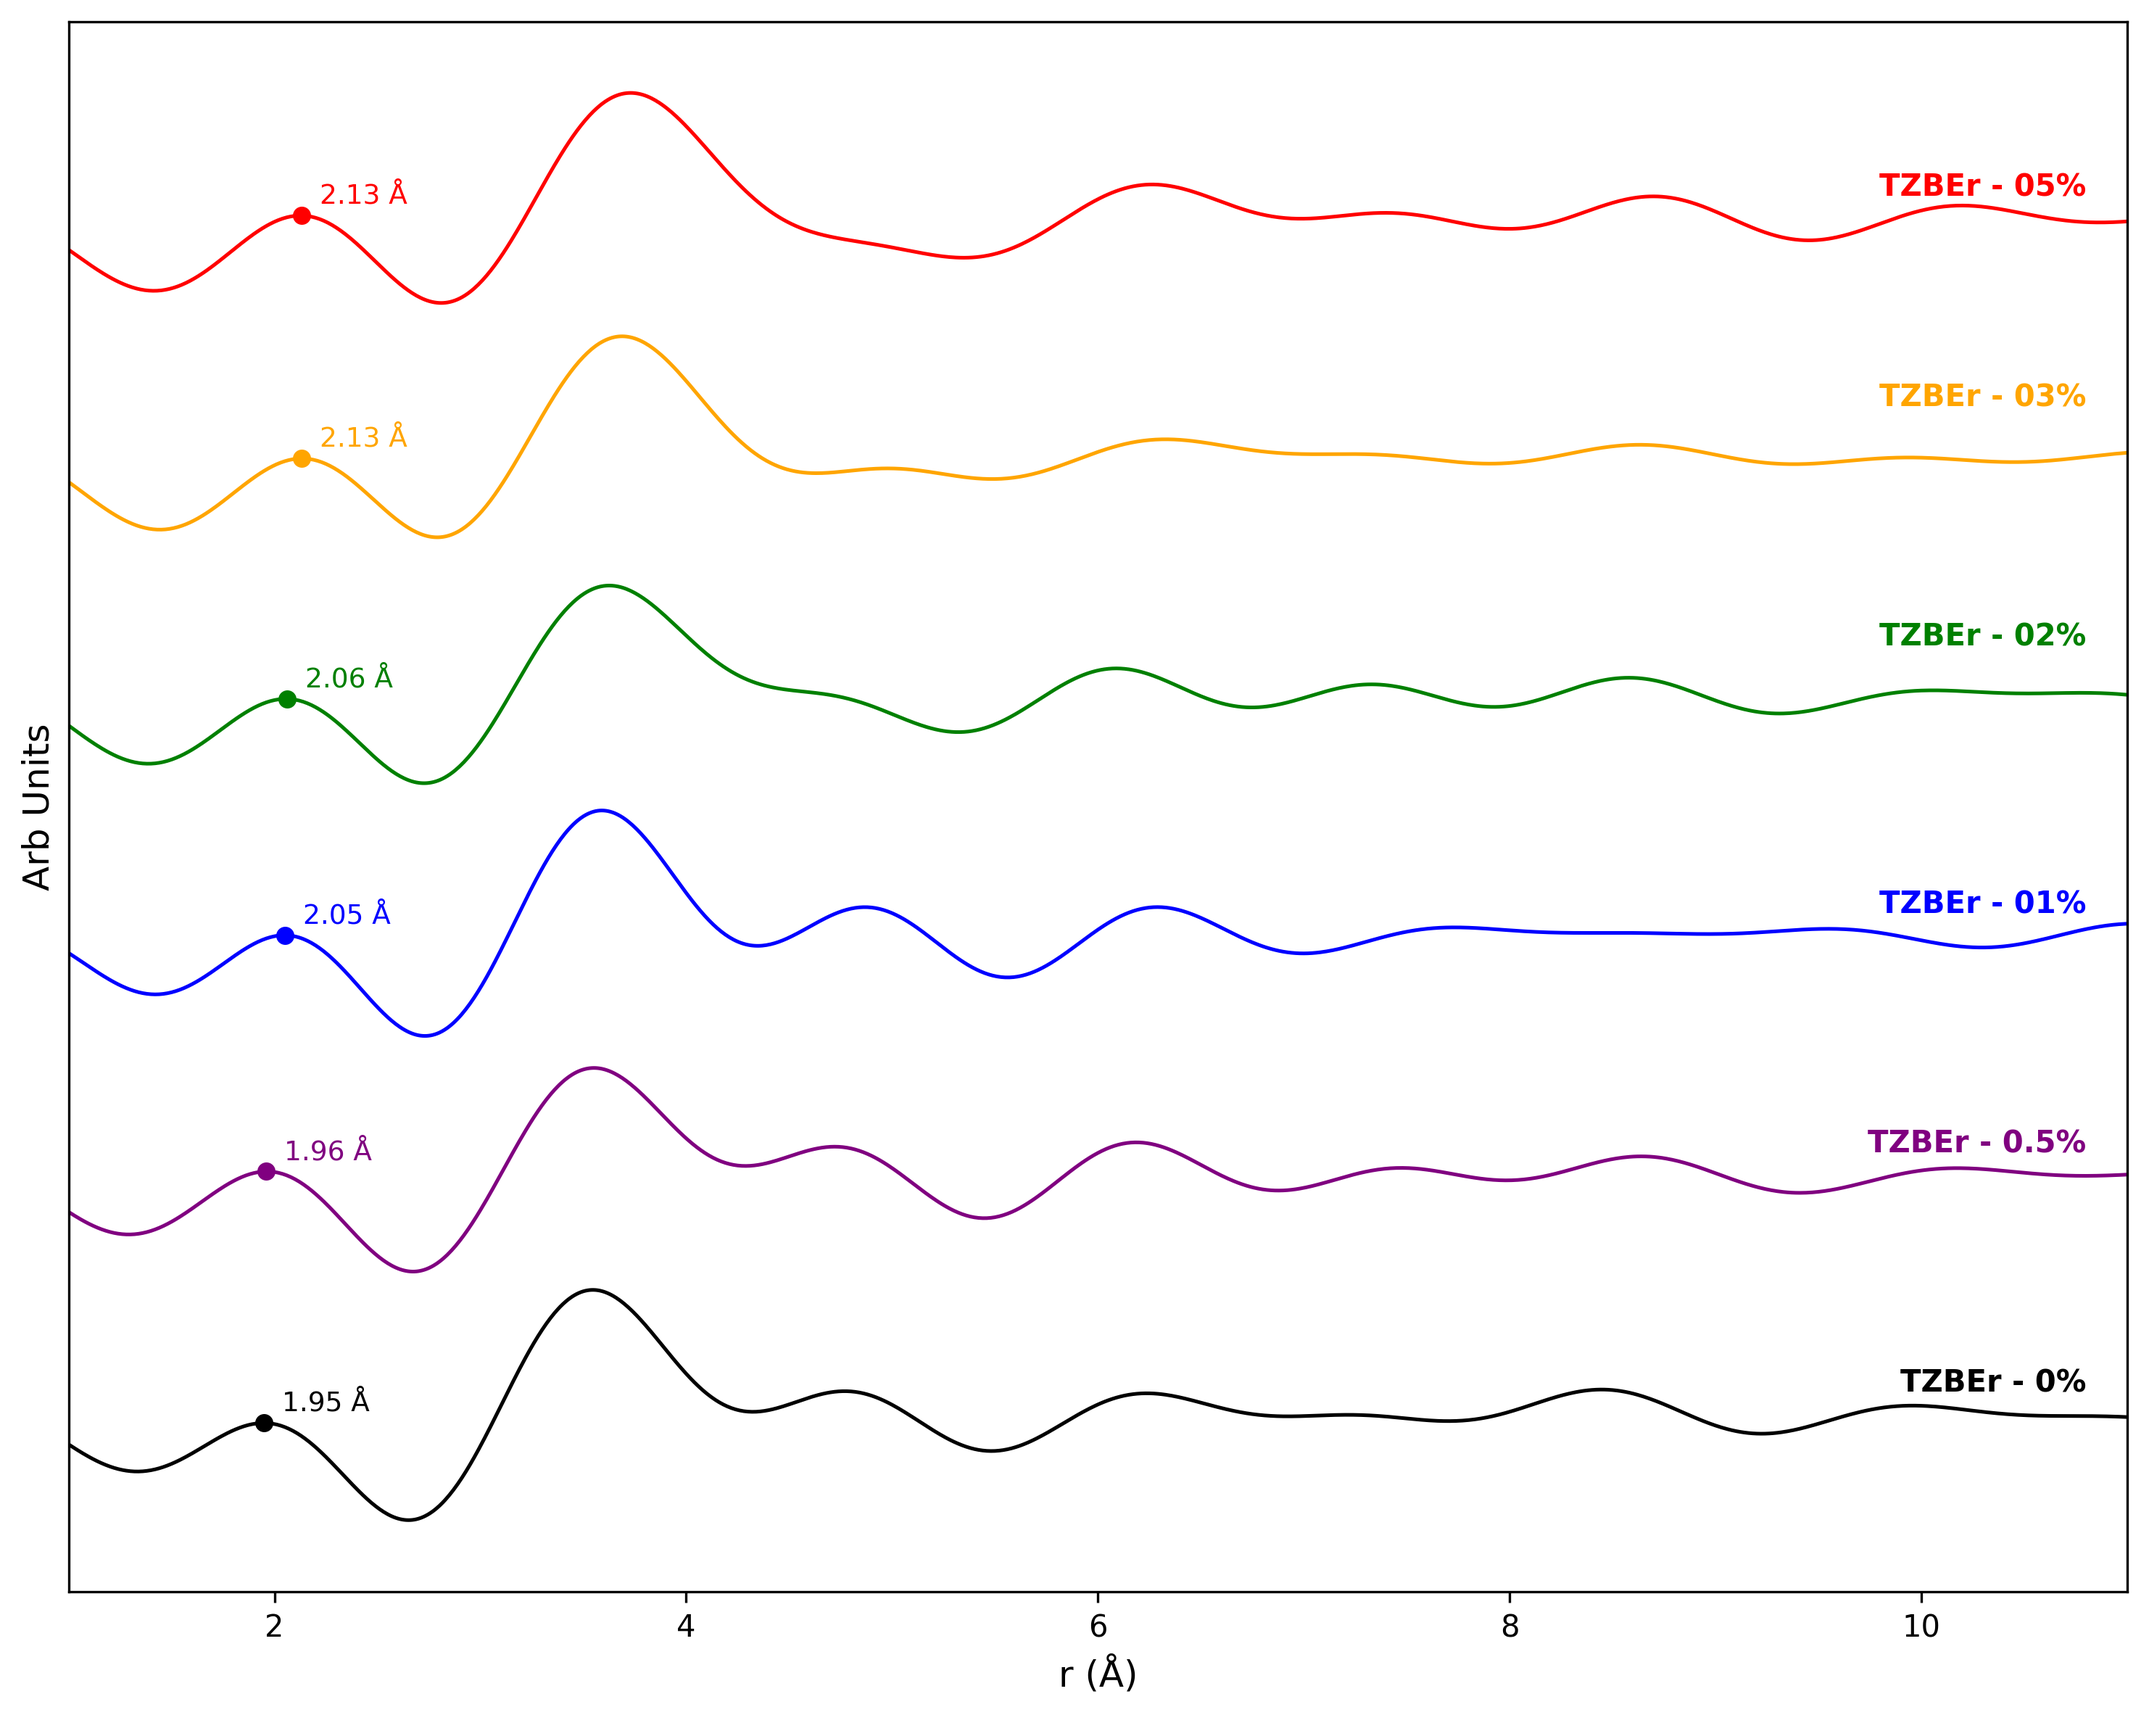
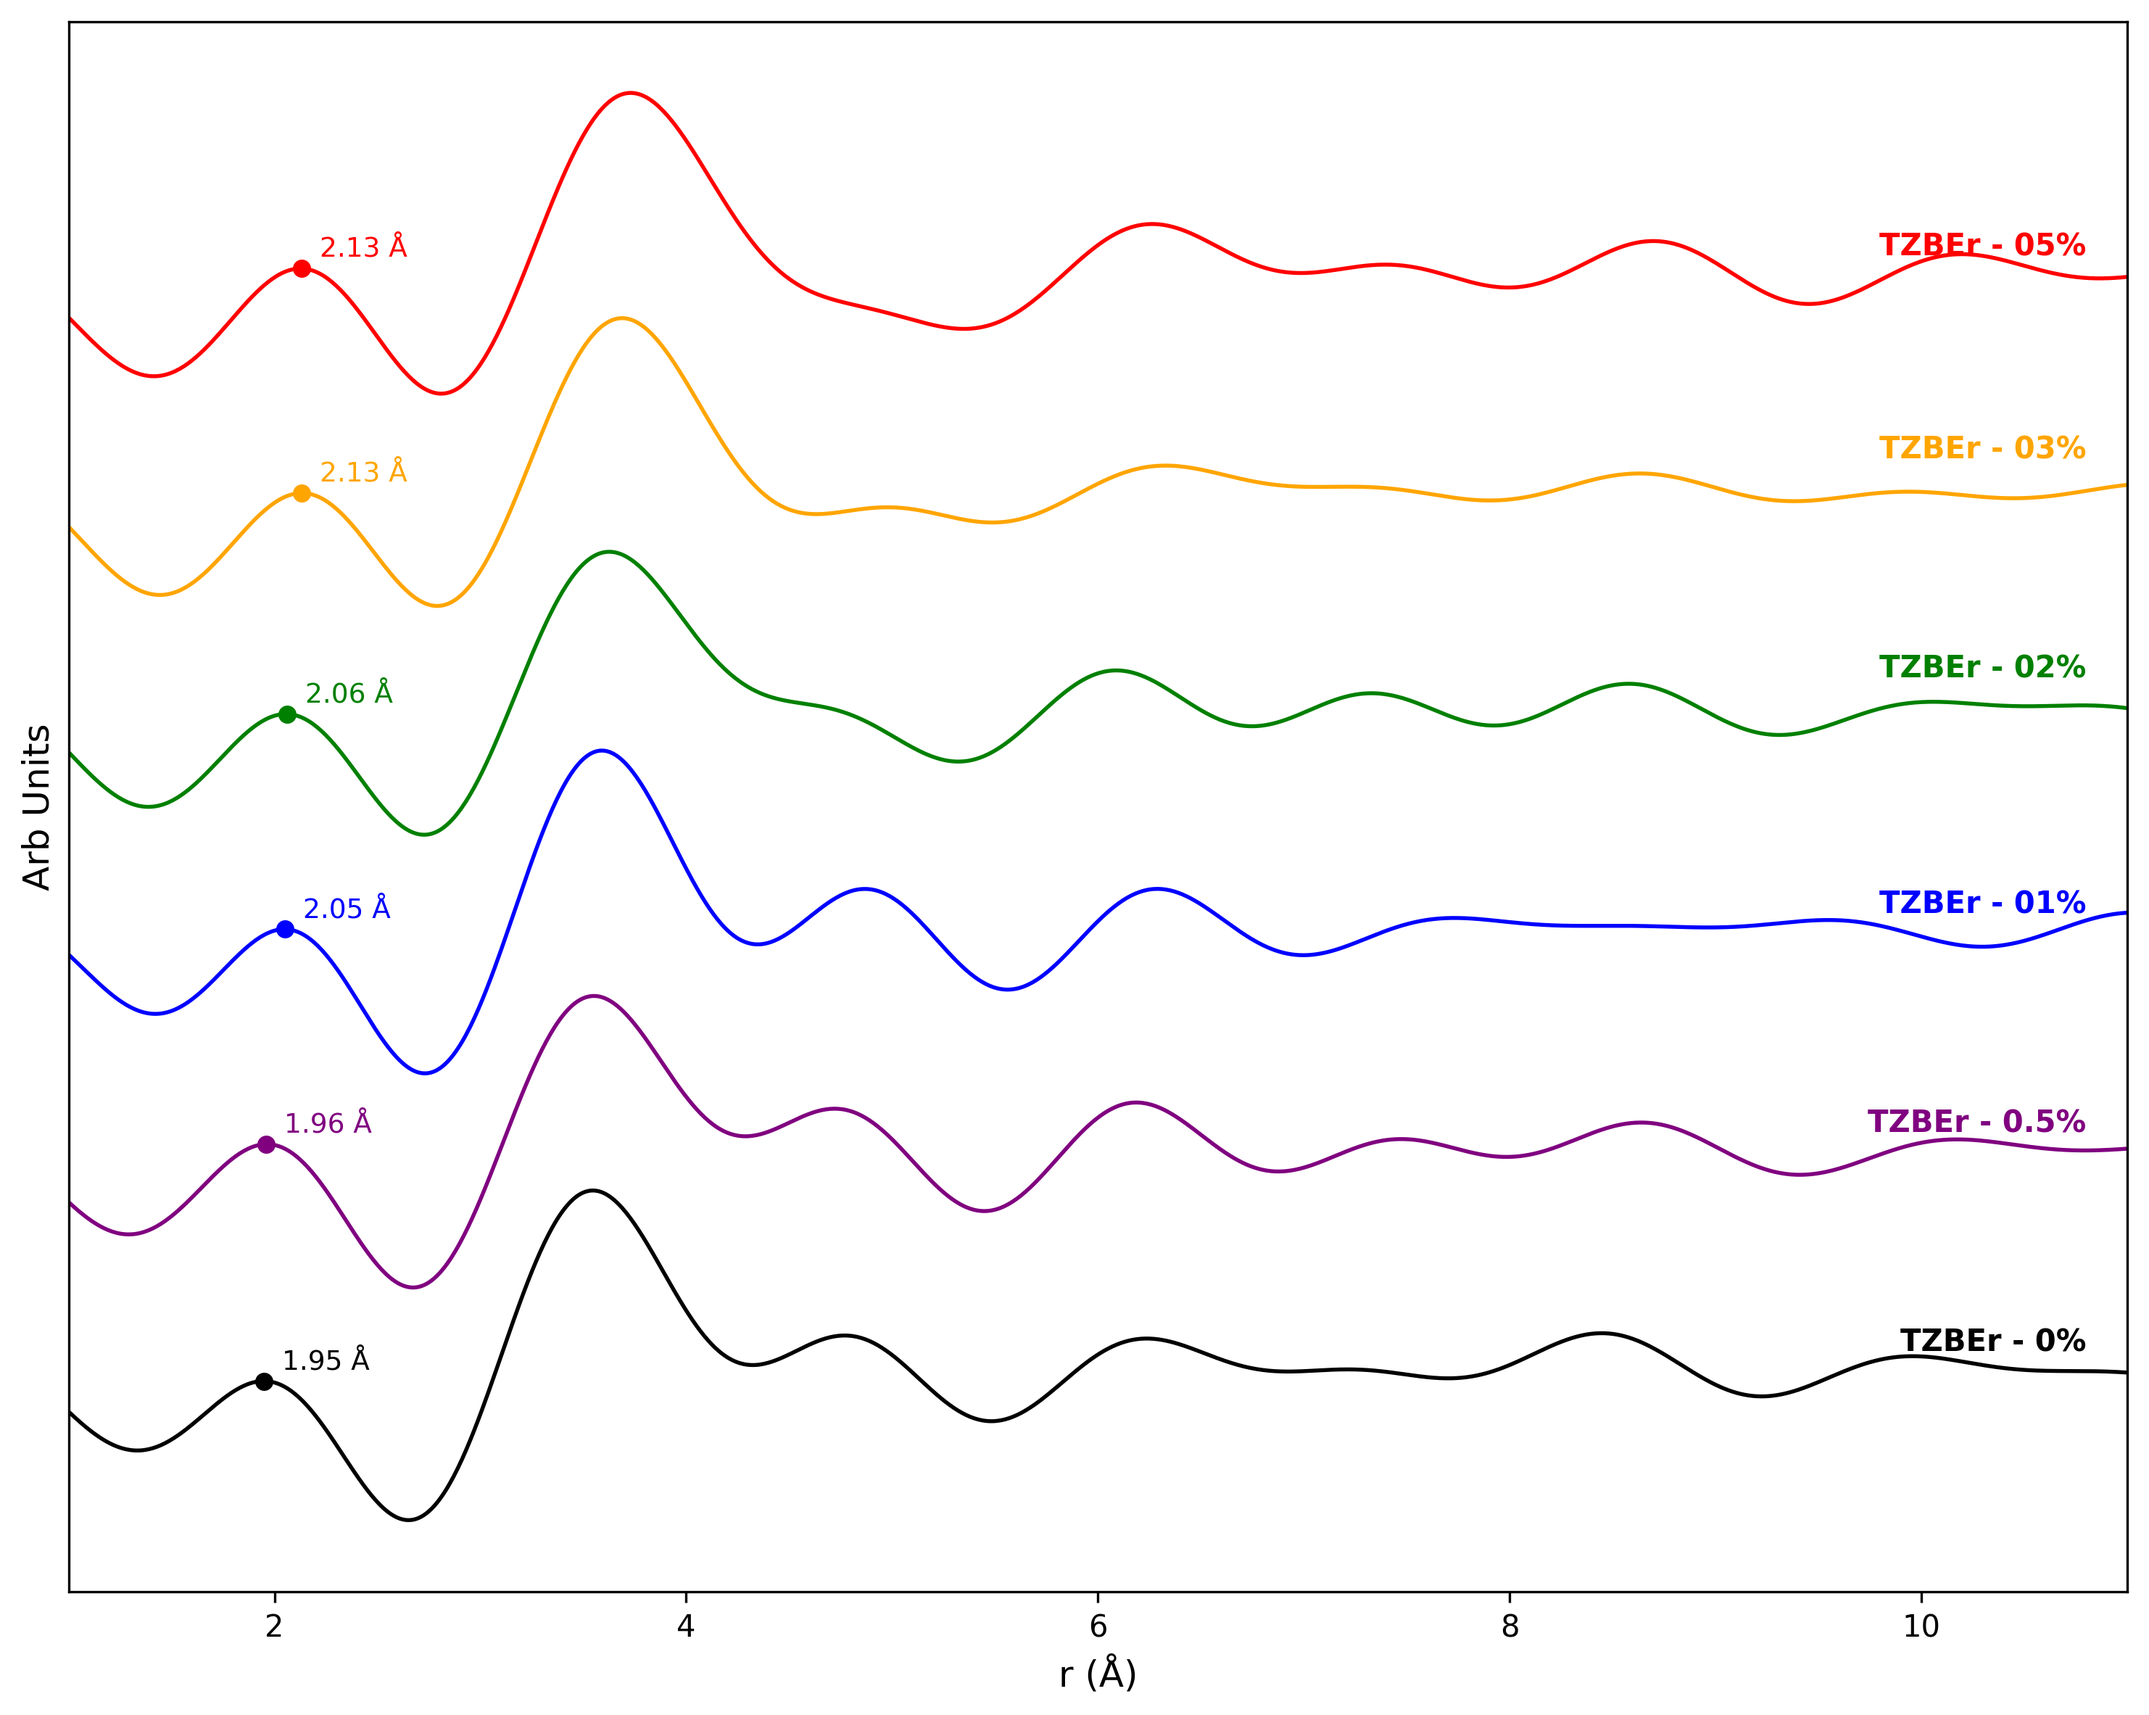
Amplify G(r) waterfall vertical scale so peaks read clearer

diff --git a/final_analysis/scripts/generate_comparison.py b/final_analysis/scripts/generate_comparison.py
@@ -39,19 +39,21 @@ def load_gr_series(samples_dict, out_override=None):
 
 def comparison_Gr_waterfall(eu_data, er_data):
     fig, axes = plt.subplots(1, 2, figsize=(16, 8), sharey=True)
+    scale = U.WATERFALL_SCALE_GR
     for ax, data, colors, title in [
         (axes[0], eu_data, EU_COLORS, "Eu₂O₃ series"),
         (axes[1], er_data, ER_COLORS, "Er₂O₃ series"),
     ]:
         for i, (sid, d) in enumerate(data.items()):
             off = i * U.WATERFALL_OFFSET_GR
-            ax.plot(d["r"], d["G"] + off, color=colors[i], lw=1.2)
+            ax.plot(d["r"], scale * d["G"] + off, color=colors[i], lw=1.3)
             if d["first_r"] is not None:
                 idx = np.argmin(np.abs(d["r"] - d["first_r"]))
-                ax.plot(d["first_r"], d["G"][idx] + off, "o",
+                ypk = scale * d["G"][idx] + off
+                ax.plot(d["first_r"], ypk, "o",
                         color=colors[i], ms=U.PEAK_MARKERSIZE, zorder=5)
                 ax.annotate(f'{d["first_r"]:.2f} Å',
-                            (d["first_r"], d["G"][idx] + off),
+                            (d["first_r"], ypk),
                             textcoords="offset points", xytext=(4, 3),
                             fontsize=U.PEAK_FONTSIZE, color=colors[i])
             extra = 0.3 if sid in U.EXTRA_OFFSET_SAMPLES else 0.0

diff --git a/final_analysis/scripts/generate_series_plots.py b/final_analysis/scripts/generate_series_plots.py
@@ -139,18 +139,20 @@ def plot_02(cfg, data):
 
 def plot_03(cfg, data):
     fig, ax = plt.subplots(figsize=(10, 8))
+    scale = U.WATERFALL_SCALE_GR
     for i, sid in enumerate(cfg["keys"]):
         d = data[sid]
         off = i * U.WATERFALL_OFFSET_GR
-        y = d["G"] + off
-        ax.plot(d["r"], y, color=cfg["colors"][i], lw=1.2)
+        y = scale * d["G"] + off
+        ax.plot(d["r"], y, color=cfg["colors"][i], lw=1.3)
         # Mark proper first peak (cation–O / Te–O ~1.9–2.2 Å), not Te–Te
         if d["first_r"] is not None:
             idx = np.argmin(np.abs(d["r"] - d["first_r"]))
-            ax.plot(d["first_r"], d["G"][idx] + off, U.PEAK_MARKER,
+            ypk = scale * d["G"][idx] + off
+            ax.plot(d["first_r"], ypk, U.PEAK_MARKER,
                     color=cfg["colors"][i], ms=U.PEAK_MARKERSIZE, zorder=5)
             ax.annotate(f'{d["first_r"]:.2f} Å',
-                        (d["first_r"], d["G"][idx] + off),
+                        (d["first_r"], ypk),
                         textcoords="offset points", xytext=(6, 4),
                         fontsize=U.PEAK_FONTSIZE, color=cfg["colors"][i])
         extra = 0.3 if sid in U.EXTRA_OFFSET_SAMPLES else 0.0

diff --git a/final_analysis/scripts/utils.py b/final_analysis/scripts/utils.py
@@ -6,7 +6,8 @@ from scipy.optimize import curve_fit
 
 DPI = 300
 BBOX = "tight"
-WATERFALL_OFFSET_GR = 2.5
+WATERFALL_OFFSET_GR = 4.0      # spacing between stacked G(r) curves
+WATERFALL_SCALE_GR = 2.5       # vertical amplify so first/main peaks read clearer
 WATERFALL_OFFSET_gr = 1.2
 WATERFALL_OFFSET_DIFF = 1.5
 WATERFALL_OFFSET_FQ = 2.0
